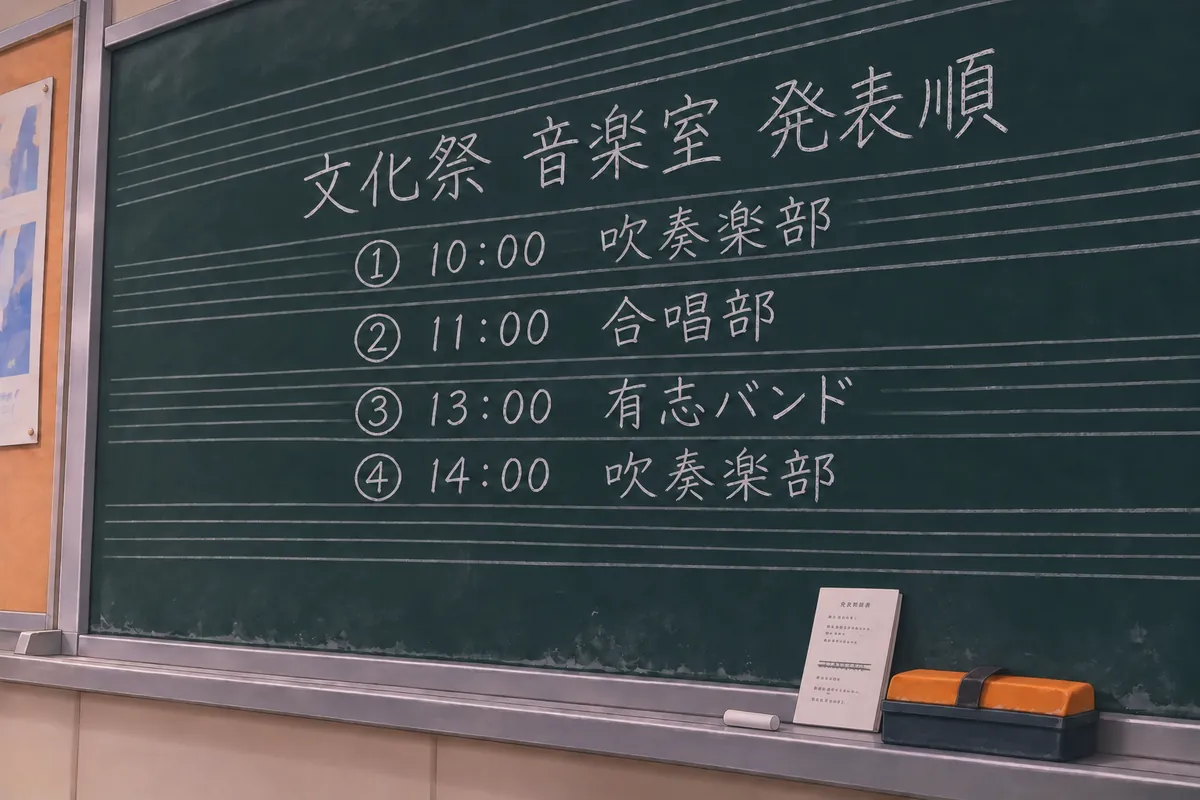
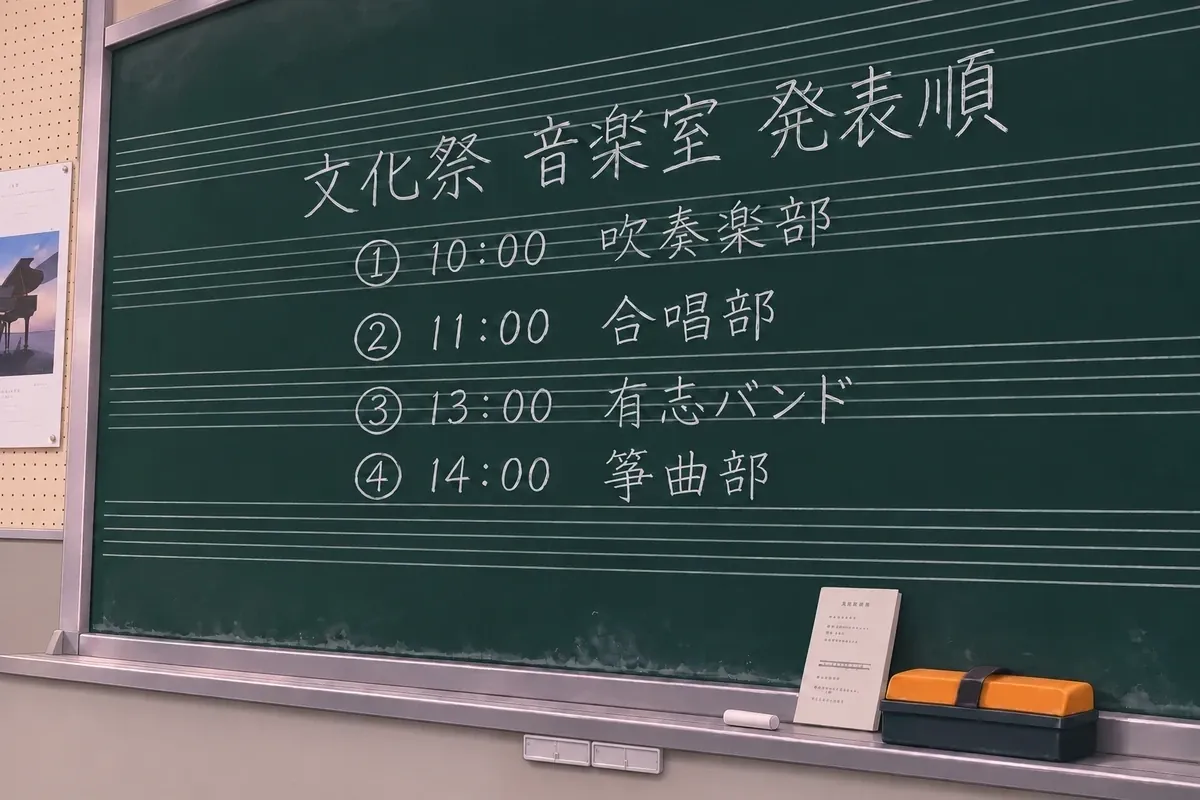
テストプレイの指摘を直す：錠の数字714、音楽室の黒板（④箏曲部・五線・壁・チョーク入れ）、鍵盤の蓋の開いた差分、話している間の座り絵を暗く、ミ・ソ・ラの文、空の絵の読み上げ、持ち物のタップ

Changed region(s): [[0.0, 0.0, 1.0, 1.0], [0.1542, 0.0, 0.185, 0.0312]]

diff --git a/index.html b/index.html
@@ -104,7 +104,12 @@
   .scene .bg { inset: 0; width: 100%; height: 100%; object-fit: cover; transition: filter .5s ease, opacity .7s ease; }
   .scene.talk .bg, .scene.talk .sit { filter: brightness(.55) saturate(.8); }
   .scene .bg-clock { position: absolute; pointer-events: none; }
-  .sit { position: absolute; width: auto; transition: filter .5s ease; pointer-events: none; }
+  .sit { position: absolute; width: auto; transition: filter .5s ease, opacity .5s ease; pointer-events: none; }
+  /* 2026-11-18 作者の指示（テストプレイで「立ち絵と部屋の中の同じ人物が2人いるように見える」）：話している間だけ、部屋の中の座り絵を少し薄暗くする。話していないときは戻す */
+  #scene.talk:not(.room-dark) #sitFig { filter: brightness(.36) saturate(.6); }   /* 透かすと幽霊のように見えるので、透明にはせず暗さだけ */
+  /* 2026-11-18 作者の指示：音楽室のピアノは、鍵盤の蓋を開けている間だけ、蓋の開いた透過素材（m_piano_open）を背景に重ねる */
+  .piano-open { opacity: 0; transition: opacity .4s ease; pointer-events: none; }
+  .piano-open.on { opacity: 1; }
   /* 2026-11-17 作者の指示：背景がフェードで切り替わるとき、背景に合わせた椅子・わすれもの・窓の明かりも同じ動きで出入りする（背景の .bg と同じ .7s） */
   #sitChair { transition: filter .5s ease, opacity .7s ease; }
   #leftover, [data-hi-light] { transition: opacity .7s ease; }
@@ -941,6 +946,7 @@
     <div id="scene" class="scene" role="group" aria-label="">
       <div id="stage" class="stage">
         <img id="bgImg" class="bg" src="" alt="">
+        <img id="pianoOpen" class="bg piano-open" src="" alt="" aria-hidden="true">
         <svg id="bgClock" class="bg bg-clock" viewBox="0 0 1536 1024" preserveAspectRatio="xMidYMid slice" aria-hidden="true" style="display:none"></svg>
         <canvas id="bgRain" aria-hidden="true"></canvas>
         <img id="sitChair" class="sit" src="" alt="" aria-hidden="true" style="display:none">
@@ -957,7 +963,7 @@
       <img id="portraitGlint" class="portrait glint" alt="" aria-hidden="true">
       <img id="portraitSpark" class="portrait spark" alt="" aria-hidden="true">
       <svg width="0" height="0" style="position:absolute" aria-hidden="true"><filter id="fRoomDark" color-interpolation-filters="sRGB"><feColorMatrix type="matrix" values=".64 0 0 0 0  0 .54 0 0 0  0 0 .56 0 0  0 0 0 1 0"/></filter><filter id="fRoomDarkP" color-interpolation-filters="sRGB"><feColorMatrix type="matrix" values=".76 0 0 0 0  0 .66 0 0 0  0 0 .68 0 0  0 0 0 1 0"/></filter><filter id="fUnlit_art" color-interpolation-filters="sRGB"><feColorMatrix type="matrix" values="0.89 0 0 0 0  0 0.8 0 0 0  0 0 0.68 0 0  0 0 0 1 0"/></filter><filter id="fUnlit_music" color-interpolation-filters="sRGB"><feColorMatrix type="matrix" values="0.84 0 0 0 0  0 0.67 0 0 0  0 0 0.5 0 0  0 0 0 1 0"/></filter><filter id="fUnlit_library" color-interpolation-filters="sRGB"><feColorMatrix type="matrix" values="0.83 0 0 0 0  0 0.83 0 0 0  0 0 0.89 0 0  0 0 0 1 0"/></filter><filter id="fUnlit_gym" color-interpolation-filters="sRGB"><feColorMatrix type="matrix" values="0.64 0 0 0 0  0 0.62 0 0 0  0 0 0.92 0 0  0 0 0 1 0"/></filter></svg>
-      <img class="chime-cg" src="img/chime_sky.webp" alt="17:00の空。チャイムが響いている">
+      <img class="chime-cg" src="img/chime_sky.webp" alt="17:00の空。チャイムが響いている" aria-hidden="true">
     </div>
   </div>
 
@@ -3163,7 +3169,15 @@
   })();
 
   /* ---------- render ---------- */
+  function syncPiano() {
+    const el = $('#pianoOpen'); if (!el) return;
+    const on = !!(C && C.id === 'music' && R && R.seen && R.seen.has('lid') && ($('#bgImg').getAttribute('src') || '').endsWith('img/m_room.webp'));
+    if (on && !el.getAttribute('src')) el.src = 'img/m_piano_open.webp';
+    el.classList.toggle('on', on);
+  }
+  if ($('#bgImg')) new MutationObserver(() => syncPiano()).observe($('#bgImg'), { attributes: true, attributeFilter: ['src'] });
   function render() {
+    syncPiano();
     // 1章は30分。調べるたびに MIN_PER_TICK 分進む
     const min = R.ticks * MIN_PER_TICK;
     const free = R.st === 'unraveled';
@@ -3189,14 +3203,18 @@
     // 前は全部隠していたので、絵の具をまだ拾っていないと流しを調べられず、進めなくなっていた
     if (R.st === 'unraveled') { const keep = C.freeSpots ? C.freeSpots() : []; $('#hsLayer').querySelectorAll('.hs').forEach(b => { b.style.display = keep.includes(b.dataset.id) ? '' : 'none'; }); }
 
-    const inv = $('#inv'); inv.innerHTML = '';
+    // 2026-11-18 テストプレイの指摘：調べた文を閉じた直後の、持ち物の1回目のタップが効かないことがあった。
+    // 文を閉じると render() で持ち物のボタンを作り直していたため、押した瞬間のボタンが消えていた。中身が同じなら作り直さない
+    const inv = $('#inv'), box = document.createElement('div');
     const add = (label, cls, fn, src) => {
       const b = document.createElement('button'); b.type = 'button'; b.className = 'chip ' + cls;
       b.innerHTML = (src ? `<img src="${src}" alt="">` : '') + `<span>${label}</span>`;
-      b.onclick = () => act(fn, 'inv:' + label); inv.appendChild(b);
+      b.onclick = () => act(fn, 'inv:' + label); box.appendChild(b);
     };
-    if (R.items.size) { const s = document.createElement('span'); s.className = 'label'; s.textContent = '持ち物'; inv.appendChild(s); }
+    if (R.items.size) { const s = document.createElement('span'); s.className = 'label'; s.textContent = '持ち物'; box.appendChild(s); }
     C.inv(add);
+    if (box.innerHTML !== inv.innerHTML) inv.replaceChildren(...box.childNodes);
+    else [...box.children].forEach((b, i) => { if (b.onclick && inv.children[i]) inv.children[i].onclick = b.onclick; });   // 見た目は同じでも、押したときの動きは今のものに
   }
 
   /* ---------- flow ---------- */
@@ -3342,7 +3360,8 @@
     if (C.onTick2) await C.onTick2();
   }
   // 17:00のチャイム：鳴っている間は空の一枚絵に切り替え、明けたら部屋に戻す
-  function setCG(on) { $('#scene').classList.toggle('cg', on); }
+  // 2026-11-18 テストプレイの指摘：見えていないチャイムの空の絵の説明文が、読み上げに出ていた。出ている間だけ読ませる
+  function setCG(on) { $('#scene').classList.toggle('cg', on); const g = $('.chime-cg'); if (g) g.setAttribute('aria-hidden', on ? 'false' : 'true'); }
   async function chime() {
     // 3回目のチャイムの直前：心に触れていた子は、この先を示す言葉を残す
     if (R.loop + 1 >= 3 && R.st !== 'unraveled' && !R.doom && R.touched && C.lastWords) {
@@ -5460,7 +5479,7 @@
     ['frag1', 'frag2', 'frag3', 'frag4'].forEach(p => R.items.delete(p));
     R.items.add('secondo'); R.know.add('melody'); render();
     await overlayWait(`<p class="eyebrow">4枚の切れ端</p><h2>ハルのパート</h2>${fullScoreSVG()}
-      <p>${R.know.has('doremi') ? '音符の下には、あのとき浮かび上がったハルの字が残っている。ド、レ、ミ。' : '鉛筆の書き込みは最初の小節の小さな「mp」と、上の余白の「夕焼けの帰り道みたいに、足どり軽く」だけ。紙の端は擦り切れて、何年も弾き込んだ楽譜だと分かる。'}</p>`, '', ['閉じる']);
+      <p>${R.know.has('doremi') ? '音符の下には、あのとき浮かび上がったハルの字が残っている。ミ、ソ、ラ……。' : '鉛筆の書き込みは最初の小節の小さな「mp」と、上の余白の「夕焼けの帰り道みたいに、足どり軽く」だけ。紙の端は擦り切れて、何年も弾き込んだ楽譜だと分かる。'}</p>`, '', ['閉じる']);
     closeOverlay();
   }
   async function viewScore() {
@@ -5511,7 +5530,7 @@
     if (r) {
       const o = r.v || {};
       R.pianoMiss = o.miss || 0;
-      if (o.dm && !R.know.has('doremi')) { R.know.add('doremi'); addLog({ who: '', t: '……音符の下に、鉛筆の字がにじむように浮かび上がってきた。ド、レ、ミ。読めるか怪しいくらいのハルの字だ。' }); }
+      if (o.dm && !R.know.has('doremi')) { R.know.add('doremi'); addLog({ who: '', t: '……音符の下に、鉛筆の字がにじむように浮かび上がってきた。ミ、ソ、ラ……。読めるか怪しいくらいのハルの字だ。' }); }
       return Promise.resolve(!!o.v);
     }
     return new Promise(res0 => {
@@ -5557,8 +5576,8 @@
           if (!R.know.has('doremi') && ++R.pianoMiss >= 3) {
             R.know.add('doremi'); saveRun();
             $('#kbScore').innerHTML = fullScoreSVG(true);
-            $('#kbMsg').textContent = '……音符の下に、鉛筆の字がにじむように浮かび上がってきた。ド、レ、ミ。読めるか怪しいくらいのハルの字だ。';
-            addLog({ who: '', t: '……音符の下に、鉛筆の字がにじむように浮かび上がってきた。ド、レ、ミ。読めるか怪しいくらいのハルの字だ。' });
+            $('#kbMsg').textContent = '……音符の下に、鉛筆の字がにじむように浮かび上がってきた。ミ、ソ、ラ……。読めるか怪しいくらいのハルの字だ。';
+            addLog({ who: '', t: '……音符の下に、鉛筆の字がにじむように浮かび上がってきた。ミ、ソ、ラ……。読めるか怪しいくらいのハルの字だ。' });
           }
         }
       };
@@ -5695,8 +5714,8 @@
                 ['ソウタ', '……それでも、ここよりは、あいつに近い気がするから', 'despair']],
     unravelMood: 'musicbox',
     // 先にピアノを弾いていたら、蓋は開いたまま
-    closeCons: () => { R.seen.delete('lid'); return [sitClose(), 'ソウタは膝の上で拳を握り込んだまま、二度とこちらを見なかった。', '沈黙のまま、時計の針だけが17:00へ近づいていった。']; },   // 慰めた後に突き放したとき（失望）
-    closeLines: () => { const open = R.seen.has('lid'); R.seen.delete('lid');
+    closeCons: () => { R.seen.delete('lid'); syncPiano(); return [sitClose(), 'ソウタは膝の上で拳を握り込んだまま、二度とこちらを見なかった。', '沈黙のまま、時計の針だけが17:00へ近づいていった。']; },   // 慰めた後に突き放したとき（失望）
+    closeLines: () => { const open = R.seen.has('lid'); R.seen.delete('lid'); syncPiano();
       return [sitPose('sota_sit_lid'), open ? 'ソウタは開いたままだった鍵盤の蓋をそっと閉じて、その上に額をつけた。もう何も言わなかった。' : 'ソウタは閉じた鍵盤の蓋に額をつけたまま、もう何も言わなかった。', '沈黙のまま、時計の針だけが17:00へ近づいていった。']; },
     hotspots: [
       ['window', '窓', 'left:0;top:0;width:18%;height:52%'],
@@ -5798,9 +5817,9 @@
         const lidOpen = R.seen.has('lid');
         await line(lidOpen ? (R.items.has('secondo') ? 'ソウタの隣で、開いたままの鍵盤に指をのせた。' : '旋律は覚えている。ソウタの隣で、開いたままの鍵盤に指をのせた。')
                            : (R.items.has('secondo') ? 'ソウタの隣からそっと鍵盤の蓋を開けた。' : '旋律は覚えている。ソウタの隣からそっと鍵盤の蓋を開けた。'), true, true);
-        R.seen.add('lid');
+        R.seen.add('lid'); syncPiano();
         const ok = await keyboard(false);
-        if (!ok) { R.seen.delete('lid'); await say(['……蓋をそっと閉じた。']); return; }
+        if (!ok) { R.seen.delete('lid'); syncPiano(); await say(['……蓋をそっと閉じた。']); return; }
         R.know.add('played'); R.seen.add('played');
         if (R.know.has('doremi') && !R.seen.has('doremiThanks')) {
           R.seen.add('doremiThanks');
@@ -6010,7 +6029,7 @@
       a = await ask([['返事が来なかったのって、ハルくんが怒ってたからじゃないよね？', 'seiron'], ['あの言葉、取り消したかった？', 'yori'],
                      ['……ソウタくんのせいじゃないよ', 'nagu'], ['ハルくんの分まで、ソウタくんが前を向いていかなきゃね', 'oitsu']], 2);
       if (a === 'seiron') { await say([['ソウタ', '……なんでお前に分かるんだよ', 'angry'], ['ソウタ', '怒ってたかどうかじゃない。……あれを送ったのは、俺なんだよ', 'angrySad'], R.seen.has('lid') ? 'ソウタは開いたままの鍵盤の蓋をそっと閉じて、その上に拳を置いた。' : 'ソウタの拳が鍵盤の蓋の上で小さく震えた。',
-                                       'ソウタは、ピアノの上のスマホに手を伸ばしかけて、そのまま指を握り込んだ。']); R.seen.delete('lid'); return closeHeart(); }
+                                       'ソウタは、ピアノの上のスマホに手を伸ばしかけて、そのまま指を握り込んだ。']); R.seen.delete('lid'); syncPiano(); return closeHeart(); }
       if (a === 'oitsu' && await hurt([['ソウタ', '……ハルの分まで？', 'surprise'], ['ソウタ', '俺が、あいつの代わりに生きてるってこと？', 'shadow'], ['ソウタ', '……無理だよ、そんなの', 'despair']])) return;
       if (a === 'nagu') {
         R.cons++;
@@ -6114,7 +6133,7 @@
                ['ソウタ', '記号とか、難しいことはいい。音の順番どおりに、鍵盤を叩いてくれるだけでいいから', 'smile'],
                '小さくうなずいた。', '「……うん。弾かせて」',
                R.seen.has('lid') ? 'ソウタが開いたままの鍵盤の前に座り直した。' : 'ソウタが鍵盤の蓋を開けた。', '二人で並んで、椅子に座る。']);
-    R.seen.add('lid');
+    R.seen.add('lid'); syncPiano();
     await line(['ソウタ', '……いくよ', 'smile'], true, true);
     bgm(null);
     const ok = await keyboard(true);
@@ -8499,7 +8518,7 @@
   const extrasAny = () => extrasList().length > 0;
 
   /* ---------- サイドストーリー『五人の放課後』（TRUEの後、おまけから読める）。5章の結末（まっすぐ／ぎこちない／決別）で一部の文が変わる ---------- */
-  const ANOTHER = [["h", "乾ききらない空", "ヒナ", "gate", [["七月十五日。夕方の六時を過ぎていた。", "駅の改札の前で、私は足を止めた。", "イーゼルに、空の絵を置いてきた。乾かすつもりで、そのまま。", "県展の〆切は今週の金曜。……出すって、決めたんだった。今日、決めた。"], ["美術室の鍵は、もう職員室に戻っているはずだった。", "走って戻ったら、美術の先生がまだ準備室にいて、黙って鍵を開けてくれた。", "「忘れもの？」って聞かれて、うなずいた。", "絵は、窓ぎわで乾きかけていた。夕方の光が当たって、昼間に見たときより、青が深く見えた。"], ["……きれいだった、って言われた。", "あの人に。名前も聞かなかった、あの人に。", "捨てたつもりの絵のことも、お母さんのことも、何も責めずに、最後まで聞いていた。", "家で筆を持つたびに、「またそんなもの」「サクラなら」って声がした。", "金賞の姉と比べられるくらいなら、描かないほうが楽だと思っていた。", "でも今日は、筆を置かなかった。"], ["新聞紙で絵を包んで、昇降口を出た。", "正門までの通路に何人か残っていた。", "楽譜を握りしめて歩いている男子。昇降口の脇に、制服の女子が二人。", "それから、昇降口から急ぎ足で出てきた、背の高い男子。", "知らない顔ばかりだった。"], ["最終下校のチャイムが鳴った。", "空の色を見たくて、顔を上げた。絵の続きを、どの色で塗るか、決めたかったから。", "本校舎の屋上。フェンスの前に、誰かが立っていた。", "夕日を背にして、動かない。", "……その立ち方を、知っていた。", "美術室の窓ぎわで、黙って一緒に空を見ていた人の、肩の落とし方。", "「……あの人だ」", "声に出したのは、私が最初だったと思う。"]]], ["s", "譜面台の楽譜", "ソウタ", "m_gate", [["楽譜を、譜面台に置いてきた。", "ハルの字が、裏に書いてある楽譜。……あれだけは、置いていけない。", "家の前まで帰ってから気づいて、来た道を戻った。"], ["音楽室は、まだ開いていた。", "音楽の先生が、夏休みの前の片付けで、譜面台と椅子を壁ぎわに寄せていた。そろそろ準備室の鍵を閉めるところで、「五分だけね」と言われた。", "グランドピアノの蓋は、閉めて帰ったはずなのに、少しだけ開いていた。", "譜面台から楽譜を取って、裏を見た。", "鉛筆の字。ド、レ、ミ。……読めるか怪しいくらいの、ハルの字。"], ["今日、あれを弾いた奴がいた。", "音の順番どおりに鍵盤を叩くだけの、下手くそな弾き方で。", "それでも、俺のパートに重なった。四小節だけ。", "ハルがいなくなってから、隣で鳴る音を聴いたのは、あれが初めてだった。", "……名前、聞いとけばよかった。"], ["楽譜を丸めて、正門へ向かった。", "通路に、新聞紙の包みを抱えた女子がいた。絵の具のにおいがした。", "チャイムが鳴って、その女子が、急に空を見上げた。", "「……あの人だ」", "つられて見上げた先、屋上のフェンスの前に、人影があった。", "……隣にいた奴だ。", "理由なんか、どうでもよかった。足が勝手に、昇降口へ戻っていた。"]]], ["k", "返しそびれた鍵", "ケイ", "g_gate", [["駅で定期を出そうとして、バッグの外ポケットに手を入れた。", "体育館の鍵が、入っていた。", "毎日、練習の後に返している鍵だ。一年のときから、一回も忘れたことはない。", "……今日、初めて忘れた。"], ["ハヤトに「先に帰ってろ」と言った。", "あいつは足首を痛めている。走らせるわけにはいかない。", "ハヤトは何か言いたそうな顔をしたけど、「……お疲れさまです」と頭を下げた。", "ポケットの奥で、あいつの手紙が、かさりと鳴った。"], ["体育教官室は、もう閉まっていた。顧問は、とっくに帰ったらしい。", "職員室のキーボックスに、体育館の鍵を掛けた。", "そのとき、隣のフックが空いているのに気づいた。", "札には「屋上」。", "横の貸出簿を見た。今日の欄に、屋上の鍵を借りた名前は、なかった。"], ["……誰かが、黙って持っていった。", "頭の隅に引っかかったまま、昇降口を出た。", "正門までの通路に何人かいた。誰とも、話したことはない。", "チャイムが鳴って、新聞紙の包みを抱えた女子が、空を見上げた。", "「……あの人だ」"], ["見上げた。屋上のフェンスの前に、人が立っている。", "体育館で、俺の話を、最後まで黙って聞いていた奴だった。", "「屋上の鍵、ない」", "気づいたら、そう言っていた。", "「さっき、キーボックス見た。……誰も借りてない」", "それだけで、全員が走り出した。"]]], ["m", "迎えの車を待つ間", "ミオ", "gate_mt", [[{"straight": "六時半に、ツムギのお父さんが車で迎えに来る。入院の前の説明を、病院で聞く日なんだって。", "awk": "六時半に、ツムギのお父さんが車で迎えに来る。入院の前の説明を、病院で聞く日なんだって。", "split": "保健室を出てから、まっすぐ帰れなかった。図書室の鍵を返して、昇降口で、しばらく靴を履けずにいた。"}, {"straight": "「正門まで一緒に行こう」と言ったら、ツムギは笑って、本を胸に抱えなおした。", "awk": "「……正門まで、行く？」と聞いたら、ツムギは少し迷ってから、うなずいた。", "split": "正門のほうに、ツムギがいた。お父さんの車を待っているんだと思う。……一人で。"}, {"straight": "『ひとりぶんの椅子』。私が、ずっと返せなかった本。", "awk": "並んで歩いたけれど、半歩だけ、ずれていた。", "split": "目を合わせないように、少し離れたところで足を止めた。"}], ["スマホが、また震えた。", "名前のない通知。……見なくても、何が書いてあるかは分かる。", "明日から、私の番。", "画面を伏せたまま、ポケットにしまった。"], ["今日、図書室に、あの人が来た。", "何も聞かずに、カウンターの前で、閉館まで待っていてくれた。", "私が謝れずにいる相手のことも、本の中の手紙のことも、最後まで、急かさなかった。", "……あの人にだけは、話せた。どうしてだろう。"], ["チャイムが鳴った。", "通路の先で、絵の包みを抱えた子が、空を見上げて言った。", "「……あの人だ」", "屋上。フェンスの前に、誰かがいる。", "……図書室で、待っていてくれた人。", {"straight": "隣で、ツムギが、私の袖をつかんだ。", "awk": "隣で、ツムギが小さく息をのんだ。私たちは、同時に顔を見合わせた。", "split": "離れたところで、ツムギも同じ場所を見上げていた。……一度も、こっちは見なかった。"}]]], ["t", "手をつなぐまで", "ツムギ", "hall_tsumugi", [["四階ぶんの階段は、長かった。", "息が上がって、何度も手すりにつかまった。", {"straight": "ミオが、私の手を引いてくれた。一段ずつ、私の速さに合わせて。", "awk": "ミオは、踊り場ごとに振り返って、私が追いつくのを待っていた。手は、つながなかった。", "split": "ミオは、先に上がっていった。振り返らなかった。……それでいい、と思った。"}, "上のほうで、扉の開く音がした。"], ["あの人は、保健室に来てくれた人だった。", "六時を過ぎた保健室で、窓の外の通路を一緒に見ていた。", "隣の丸椅子に座って、私が「またね」をガラスに書いた理由を、最後まで聞いてくれた。", "……出ていくとき、あの人は、手帳を胸に当てていた。名前を書いてほしいって、言われた手帳。"], ["屋上に出ると、風が強かった。", "フェンスの前で、あの人は、手帳を握りしめたまま立っていた。", "他の四人は、扉のところで止まっていた。誰も、近づけなかった。", "近づいたら、どこかへ行ってしまいそうで。"], ["ケイくんが、一歩だけ前に出て、手を差し出した。", "それ以上は、行かなかった。", "私は、隣まで歩いた。……どうしてか、怖くなかった。", "あの人の手が、震えていた。", "保健室で、私の手が震えていたとき、あの人は何も言わずに、そこにいてくれた。", "だから今度は、私の番だと思った。"]]], ["e", "六人目の名前", "ツムギ", "chime_sky_1830", [["ケイくんが呼んだ先生が来て、あの人は、職員室の奥へ連れていかれた。", "私たち五人は、保健室の前の廊下で待つように言われた。", "長いすに、五人で並んで座った。", "誰も、しばらく何も言わなかった。"], ["「……二年一組。春日ヒナ」", "最初に名乗ったのは、ヒナさんだった。新聞紙の包みを、膝に立てかけたまま。", "「二の二。三浦ケイ」「……五組の、井上ソウタ」", {"straight": "「三組の、水野ミオです」「同じく三組の、白石ツムギです」……ミオと、声がそろった。", "awk": "「三組の、水野です」「……白石です」少しだけ間があいて、ミオと私は、別々に名乗った。", "split": "「三組の、水野です」「……白石です」水野さんとは、目を合わせなかった。"}, "五人とも今日まで、互いの名前を知らなかった。"], ["「……あの人の名前、誰か知ってる？」", "ヒナさんが聞いた。", "「私、一度聞いたの。……答えられなかった。自分でも、分からないみたいだった」", "「……俺も聞いた。答えに困ってたから、それきりにした」と、ケイくんが言った。", "他には、誰も答えなかった。", "絵を見てもらった。連弾をしてもらった。話を聞いてもらった。閉館まで待ってもらった。窓の外を一緒に見てもらった。", "五人とも、手帳に名前を書いた。……あの人の名前だけ、誰も知らなかった。"], ["先生が来て、今夜のことは、まだ誰にも話さないでほしい、と言った。", "「あの人は、どうなるんですか」とソウタくんが聞いた。", "「今日は家の人と帰る。……明日のことは、明日、本人と決める」", "先生は、それ以上は言わなかった。"], ["昇降口の外に、うちの車が停まっていた。", "ケイくんのスマホが光って、「部長、帰れましたか」と、ハヤトくんという一年生から届いていた。", "ケイくんは、少し笑って返事を打った。", "「……明日、終業式の後、保健室に寄る」", "ソウタくんが、楽譜を丸めたまま言った。", "「私も」とヒナさんが言った。「……あの人の顔、描かせてもらう」"], ["「来るかな、あの人」", "誰かが言った。", "「来るよ」", "ケイくんが、立ち上がりながら答えた。", "「待ってるって、言ったから」", "廊下の窓の外で、日は、もう沈んでいた。"]]]];
+  const ANOTHER = [["h", "乾ききらない空", "ヒナ", "gate", [["七月十五日。夕方の六時を過ぎていた。", "駅の改札の前で、私は足を止めた。", "イーゼルに、空の絵を置いてきた。乾かすつもりで、そのまま。", "県展の〆切は今週の金曜。……出すって、決めたんだった。今日、決めた。"], ["美術室の鍵は、もう職員室に戻っているはずだった。", "走って戻ったら、美術の先生がまだ準備室にいて、黙って鍵を開けてくれた。", "「忘れもの？」って聞かれて、うなずいた。", "絵は、窓ぎわで乾きかけていた。夕方の光が当たって、昼間に見たときより、青が深く見えた。"], ["……きれいだった、って言われた。", "あの人に。名前も聞かなかった、あの人に。", "捨てたつもりの絵のことも、お母さんのことも、何も責めずに、最後まで聞いていた。", "家で筆を持つたびに、「またそんなもの」「サクラなら」って声がした。", "金賞の姉と比べられるくらいなら、描かないほうが楽だと思っていた。", "でも今日は、筆を置かなかった。"], ["新聞紙で絵を包んで、昇降口を出た。", "正門までの通路に何人か残っていた。", "楽譜を握りしめて歩いている男子。昇降口の脇に、制服の女子が二人。", "それから、昇降口から急ぎ足で出てきた、背の高い男子。", "知らない顔ばかりだった。"], ["最終下校のチャイムが鳴った。", "空の色を見たくて、顔を上げた。絵の続きを、どの色で塗るか、決めたかったから。", "本校舎の屋上。フェンスの前に、誰かが立っていた。", "夕日を背にして、動かない。", "……その立ち方を、知っていた。", "美術室の窓ぎわで、黙って一緒に空を見ていた人の、肩の落とし方。", "「……あの人だ」", "声に出したのは、私が最初だったと思う。"]]], ["s", "譜面台の楽譜", "ソウタ", "m_gate", [["楽譜を、譜面台に置いてきた。", "ハルの字が、裏に書いてある楽譜。……あれだけは、置いていけない。", "家の前まで帰ってから気づいて、来た道を戻った。"], ["音楽室は、まだ開いていた。", "音楽の先生が、夏休みの前の片付けで、譜面台と椅子を壁ぎわに寄せていた。そろそろ準備室の鍵を閉めるところで、「五分だけね」と言われた。", "グランドピアノの蓋は、閉めて帰ったはずなのに、少しだけ開いていた。", "譜面台から楽譜を取って、裏を見た。", "鉛筆の字。ミ、ソ、ラ……。読めるか怪しいくらいの、ハルの字。"], ["今日、あれを弾いた奴がいた。", "音の順番どおりに鍵盤を叩くだけの、下手くそな弾き方で。", "それでも、俺のパートに重なった。四小節だけ。", "ハルがいなくなってから、隣で鳴る音を聴いたのは、あれが初めてだった。", "……名前、聞いとけばよかった。"], ["楽譜を丸めて、正門へ向かった。", "通路に、新聞紙の包みを抱えた女子がいた。絵の具のにおいがした。", "チャイムが鳴って、その女子が、急に空を見上げた。", "「……あの人だ」", "つられて見上げた先、屋上のフェンスの前に、人影があった。", "……隣にいた奴だ。", "理由なんか、どうでもよかった。足が勝手に、昇降口へ戻っていた。"]]], ["k", "返しそびれた鍵", "ケイ", "g_gate", [["駅で定期を出そうとして、バッグの外ポケットに手を入れた。", "体育館の鍵が、入っていた。", "毎日、練習の後に返している鍵だ。一年のときから、一回も忘れたことはない。", "……今日、初めて忘れた。"], ["ハヤトに「先に帰ってろ」と言った。", "あいつは足首を痛めている。走らせるわけにはいかない。", "ハヤトは何か言いたそうな顔をしたけど、「……お疲れさまです」と頭を下げた。", "ポケットの奥で、あいつの手紙が、かさりと鳴った。"], ["体育教官室は、もう閉まっていた。顧問は、とっくに帰ったらしい。", "職員室のキーボックスに、体育館の鍵を掛けた。", "そのとき、隣のフックが空いているのに気づいた。", "札には「屋上」。", "横の貸出簿を見た。今日の欄に、屋上の鍵を借りた名前は、なかった。"], ["……誰かが、黙って持っていった。", "頭の隅に引っかかったまま、昇降口を出た。", "正門までの通路に何人かいた。誰とも、話したことはない。", "チャイムが鳴って、新聞紙の包みを抱えた女子が、空を見上げた。", "「……あの人だ」"], ["見上げた。屋上のフェンスの前に、人が立っている。", "体育館で、俺の話を、最後まで黙って聞いていた奴だった。", "「屋上の鍵、ない」", "気づいたら、そう言っていた。", "「さっき、キーボックス見た。……誰も借りてない」", "それだけで、全員が走り出した。"]]], ["m", "迎えの車を待つ間", "ミオ", "gate_mt", [[{"straight": "六時半に、ツムギのお父さんが車で迎えに来る。入院の前の説明を、病院で聞く日なんだって。", "awk": "六時半に、ツムギのお父さんが車で迎えに来る。入院の前の説明を、病院で聞く日なんだって。", "split": "保健室を出てから、まっすぐ帰れなかった。図書室の鍵を返して、昇降口で、しばらく靴を履けずにいた。"}, {"straight": "「正門まで一緒に行こう」と言ったら、ツムギは笑って、本を胸に抱えなおした。", "awk": "「……正門まで、行く？」と聞いたら、ツムギは少し迷ってから、うなずいた。", "split": "正門のほうに、ツムギがいた。お父さんの車を待っているんだと思う。……一人で。"}, {"straight": "『ひとりぶんの椅子』。私が、ずっと返せなかった本。", "awk": "並んで歩いたけれど、半歩だけ、ずれていた。", "split": "目を合わせないように、少し離れたところで足を止めた。"}], ["スマホが、また震えた。", "名前のない通知。……見なくても、何が書いてあるかは分かる。", "明日から、私の番。", "画面を伏せたまま、ポケットにしまった。"], ["今日、図書室に、あの人が来た。", "何も聞かずに、カウンターの前で、閉館まで待っていてくれた。", "私が謝れずにいる相手のことも、本の中の手紙のことも、最後まで、急かさなかった。", "……あの人にだけは、話せた。どうしてだろう。"], ["チャイムが鳴った。", "通路の先で、絵の包みを抱えた子が、空を見上げて言った。", "「……あの人だ」", "屋上。フェンスの前に、誰かがいる。", "……図書室で、待っていてくれた人。", {"straight": "隣で、ツムギが、私の袖をつかんだ。", "awk": "隣で、ツムギが小さく息をのんだ。私たちは、同時に顔を見合わせた。", "split": "離れたところで、ツムギも同じ場所を見上げていた。……一度も、こっちは見なかった。"}]]], ["t", "手をつなぐまで", "ツムギ", "hall_tsumugi", [["四階ぶんの階段は、長かった。", "息が上がって、何度も手すりにつかまった。", {"straight": "ミオが、私の手を引いてくれた。一段ずつ、私の速さに合わせて。", "awk": "ミオは、踊り場ごとに振り返って、私が追いつくのを待っていた。手は、つながなかった。", "split": "ミオは、先に上がっていった。振り返らなかった。……それでいい、と思った。"}, "上のほうで、扉の開く音がした。"], ["あの人は、保健室に来てくれた人だった。", "六時を過ぎた保健室で、窓の外の通路を一緒に見ていた。", "隣の丸椅子に座って、私が「またね」をガラスに書いた理由を、最後まで聞いてくれた。", "……出ていくとき、あの人は、手帳を胸に当てていた。名前を書いてほしいって、言われた手帳。"], ["屋上に出ると、風が強かった。", "フェンスの前で、あの人は、手帳を握りしめたまま立っていた。", "他の四人は、扉のところで止まっていた。誰も、近づけなかった。", "近づいたら、どこかへ行ってしまいそうで。"], ["ケイくんが、一歩だけ前に出て、手を差し出した。", "それ以上は、行かなかった。", "私は、隣まで歩いた。……どうしてか、怖くなかった。", "あの人の手が、震えていた。", "保健室で、私の手が震えていたとき、あの人は何も言わずに、そこにいてくれた。", "だから今度は、私の番だと思った。"]]], ["e", "六人目の名前", "ツムギ", "chime_sky_1830", [["ケイくんが呼んだ先生が来て、あの人は、職員室の奥へ連れていかれた。", "私たち五人は、保健室の前の廊下で待つように言われた。", "長いすに、五人で並んで座った。", "誰も、しばらく何も言わなかった。"], ["「……二年一組。春日ヒナ」", "最初に名乗ったのは、ヒナさんだった。新聞紙の包みを、膝に立てかけたまま。", "「二の二。三浦ケイ」「……五組の、井上ソウタ」", {"straight": "「三組の、水野ミオです」「同じく三組の、白石ツムギです」……ミオと、声がそろった。", "awk": "「三組の、水野です」「……白石です」少しだけ間があいて、ミオと私は、別々に名乗った。", "split": "「三組の、水野です」「……白石です」水野さんとは、目を合わせなかった。"}, "五人とも今日まで、互いの名前を知らなかった。"], ["「……あの人の名前、誰か知ってる？」", "ヒナさんが聞いた。", "「私、一度聞いたの。……答えられなかった。自分でも、分からないみたいだった」", "「……俺も聞いた。答えに困ってたから、それきりにした」と、ケイくんが言った。", "他には、誰も答えなかった。", "絵を見てもらった。連弾をしてもらった。話を聞いてもらった。閉館まで待ってもらった。窓の外を一緒に見てもらった。", "五人とも、手帳に名前を書いた。……あの人の名前だけ、誰も知らなかった。"], ["先生が来て、今夜のことは、まだ誰にも話さないでほしい、と言った。", "「あの人は、どうなるんですか」とソウタくんが聞いた。", "「今日は家の人と帰る。……明日のことは、明日、本人と決める」", "先生は、それ以上は言わなかった。"], ["昇降口の外に、うちの車が停まっていた。", "ケイくんのスマホが光って、「部長、帰れましたか」と、ハヤトくんという一年生から届いていた。", "ケイくんは、少し笑って返事を打った。", "「……明日、終業式の後、保健室に寄る」", "ソウタくんが、楽譜を丸めたまま言った。", "「私も」とヒナさんが言った。「……あの人の顔、描かせてもらう」"], ["「来るかな、あの人」", "誰かが言った。", "「来るよ」", "ケイくんが、立ち上がりながら答えた。", "「待ってるって、言ったから」", "廊下の窓の外で、日は、もう沈んでいた。"]]]];
   const anotherOpen = () => !!(P.endings && P.endings.TRUE);
   function showAnother() {
     openOverlay(`<p class="eyebrow">おまけ</p><h2>サイドストーリー『五人の放課後』</h2>
